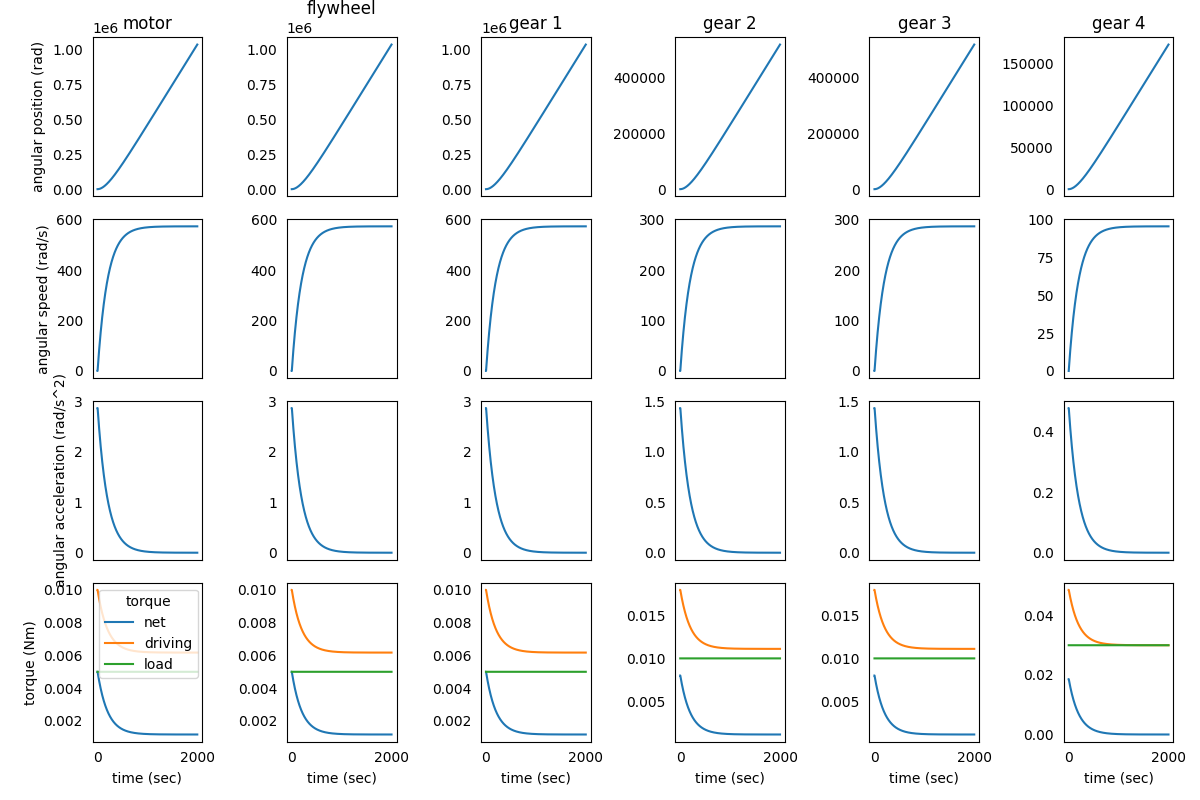
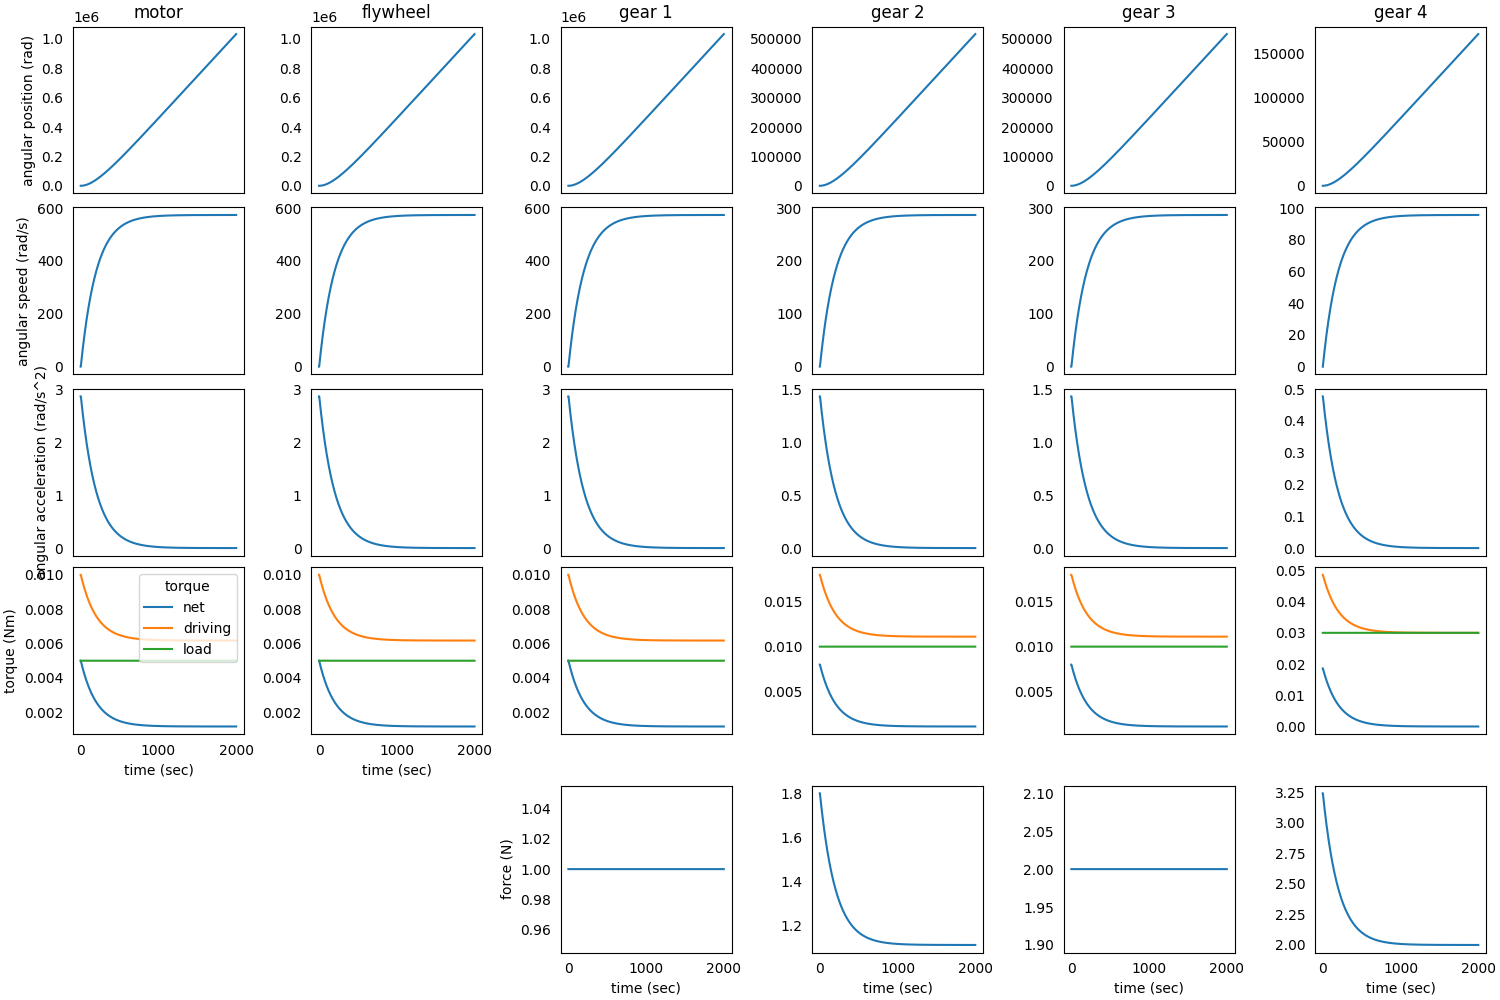
DOC: update example 1 documentation

diff --git a/docs/source/examples/example_1/example_1.py b/docs/source/examples/example_1/example_1.py
@@ -1,7 +1,7 @@
 # Import required packages, classes and functions
 
 from gearpy.mechanical_object import DCMotor, SpurGear, Flywheel
-from gearpy.units import AngularSpeed, InertiaMoment, Torque, AngularPosition, TimeInterval, Time
+from gearpy.units import AngularSpeed, InertiaMoment, Length, Torque, AngularPosition, TimeInterval, Time
 from gearpy.utils import add_gear_mating, add_fixed_joint
 from gearpy.transmission import Transmission
 from gearpy.solver import Solver
@@ -18,15 +18,19 @@ flywheel = Flywheel(name = 'flywheel',
                     inertia_moment = InertiaMoment(3, 'gm^2'))
 gear_1 = SpurGear(name = 'gear 1',
                   n_teeth = 10,
+                  module = Length(1, 'mm'),
                   inertia_moment = InertiaMoment(1, 'gm^2'))
 gear_2 = SpurGear(name = 'gear 2',
                   n_teeth = 20,
+                  module = Length(1, 'mm'),
                   inertia_moment = InertiaMoment(2, 'gm^2'))
 gear_3 = SpurGear(name = 'gear 3',
                   n_teeth = 10,
+                  module = Length(1, 'mm'),
                   inertia_moment = InertiaMoment(1, 'gm^2'))
 gear_4 = SpurGear(name = 'gear 4',
                   n_teeth = 30,
+                  module = Length(1, 'mm'),
                   inertia_moment = InertiaMoment(3, 'gm^2'))
 
 
@@ -75,9 +79,9 @@ transmission.snapshot(target_time = Time(1000, 'sec'),
                       load_torque_unit = 'mNm')
 
 
-transmission.plot(figsize = (12, 8))
+transmission.plot(figsize = (15, 10))
 
 transmission.plot(elements = ['gear 4', motor],
-                  variables = ['torque', 'driving torque', 'angular speed', 'load torque'],
+                  variables = ['torque', 'driving torque', 'angular speed', 'load torque', 'tangential force'],
                   torque_unit = 'mNm',
-                  figsize = (8, 6))
+                  figsize = (8, 8))

diff --git a/docs/source/examples/example_1/README.md b/docs/source/examples/example_1/README.md
@@ -18,7 +18,7 @@ transmission:
 
 ```python
 from gearpy.mechanical_object import DCMotor, SpurGear, Flywheel
-from gearpy.units import AngularSpeed, InertiaMoment, Torque
+from gearpy.units import AngularSpeed, InertiaMoment, Length, Torque
 
 motor = DCMotor(name = 'motor',
                 no_load_speed = AngularSpeed(1500, 'rad/s'),
@@ -28,15 +28,19 @@ flywheel = Flywheel(name = 'flywheel',
                     inertia_moment = InertiaMoment(3, 'gm^2'))
 gear_1 = SpurGear(name = 'gear 1',
                   n_teeth = 10,
+                  module = Length(1, 'mm'),
                   inertia_moment = InertiaMoment(1, 'gm^2'))
 gear_2 = SpurGear(name = 'gear 2',
                   n_teeth = 20,
+                  module = Length(1, 'mm'),
                   inertia_moment = InertiaMoment(2, 'gm^2'))
 gear_3 = SpurGear(name = 'gear 3',
                   n_teeth = 10,
+                  module = Length(1, 'mm'),
                   inertia_moment = InertiaMoment(1, 'gm^2'))
 gear_4 = SpurGear(name = 'gear 4',
                   n_teeth = 30,
+                  module = Length(1, 'mm'),
                   inertia_moment = InertiaMoment(3, 'gm^2'))
 ```
 
@@ -115,13 +119,13 @@ transmission.snapshot(target_time = Time(1000, 'sec'))
 
 ```text
 Mechanical Transmission Status at Time = 1000 sec
-         angular position (rad) angular speed (rad/s) angular acceleration (rad/s^2) torque (Nm) driving torque (Nm) load torque (Nm)
-motor             459683.165617            570.175248                       0.019532    0.001199            0.006199            0.005
-flywheel          459683.165617            570.175248                       0.019532    0.001199            0.006199            0.005
-gear 1            459683.165617            570.175248                       0.019532    0.001199            0.006199            0.005
-gear 2            229841.582808            285.087624                       0.009766    0.001158            0.011158             0.01
-gear 3            229841.582808            285.087624                       0.009766    0.001158            0.011158             0.01
-gear 4             76708.893383             95.032447                       0.003239    0.000126            0.030126             0.03
+         angular position (rad) angular speed (rad/s) angular acceleration (rad/s^2) torque (Nm) driving torque (Nm) load torque (Nm) tangential force (N)
+motor             459683.165617            570.175248                       0.019532    0.001199            0.006199            0.005                  NaN
+flywheel          459683.165617            570.175248                       0.019532    0.001199            0.006199            0.005                  NaN
+gear 1            459683.165617            570.175248                       0.019532    0.001199            0.006199            0.005                  1.0
+gear 2            229841.582808            285.087624                       0.009766    0.001158            0.011158             0.01              1.11579
+gear 3            229841.582808            285.087624                       0.009766    0.001158            0.011158             0.01                  2.0
+gear 4             76708.893383             95.032447                       0.003239    0.000126            0.030126             0.03             2.008421
 ```
 
 The default unit used for torques are not so convenient in this case, so 
@@ -136,13 +140,13 @@ transmission.snapshot(target_time = Time(1000, 'sec'),
 
 ```text
 Mechanical Transmission Status at Time = 1000 sec
-         angular position (rad) angular speed (rad/s) angular acceleration (rad/s^2) torque (mNm) driving torque (mNm) load torque (mNm)
-motor             459683.165617            570.175248                       0.019532     1.198832             6.198832               5.0
-flywheel          459683.165617            570.175248                       0.019532     1.198832             6.198832               5.0
-gear 1            459683.165617            570.175248                       0.019532     1.198832             6.198832               5.0
-gear 2            229841.582808            285.087624                       0.009766     1.157897            11.157897              10.0
-gear 3            229841.582808            285.087624                       0.009766     1.157897            11.157897              10.0
-gear 4             76708.893383             95.032447                       0.003239     0.126322            30.126322              30.0
+         angular position (rad) angular speed (rad/s) angular acceleration (rad/s^2) torque (mNm) driving torque (mNm) load torque (mNm) tangential force (N)
+motor             459683.165617            570.175248                       0.019532     1.198832             6.198832               5.0                  NaN
+flywheel          459683.165617            570.175248                       0.019532     1.198832             6.198832               5.0                  NaN
+gear 1            459683.165617            570.175248                       0.019532     1.198832             6.198832               5.0                  1.0
+gear 2            229841.582808            285.087624                       0.009766     1.157897            11.157897              10.0              1.11579
+gear 3            229841.582808            285.087624                       0.009766     1.157897            11.157897              10.0                  2.0
+gear 4             76708.893383             95.032447                       0.003239     0.126322            30.126322              30.0             2.008421
 ```
 
 Notice that the load torque applied on the *gear 4* is exactly the 
@@ -156,7 +160,7 @@ We can get a more general view of the system by plotting the time
 variables of each element with respect to time:
 
 ```python
-transmission.plot(figsize = (12, 8))
+transmission.plot(figsize = (15, 10))
 ```
 
 ![](images/plot_1.png)
@@ -170,7 +174,7 @@ plotting torques:
 transmission.plot(elements = ['gear 4', motor],
                   variables = ['torque', 'driving torque', 'angular speed', 'load torque'],
                   torque_unit = 'mNm',
-                  figsize = (8, 6))
+                  figsize = (8, 8))
 ```
 
 ![](images/plot_2.png)
@@ -182,7 +186,7 @@ sorts:
 - the elements: the motor on the left and following elements proceeding
 to the right,
 - the time variables: kinematic variables at the top and torques in
-the last row, in the same plot.
+the second-last row and force in the last row, in the same plot.
   
 We can see that at 1000 seconds the angular speeds of *motor* and 
 *gear 4* are almost constant, confirming the insight previously 
